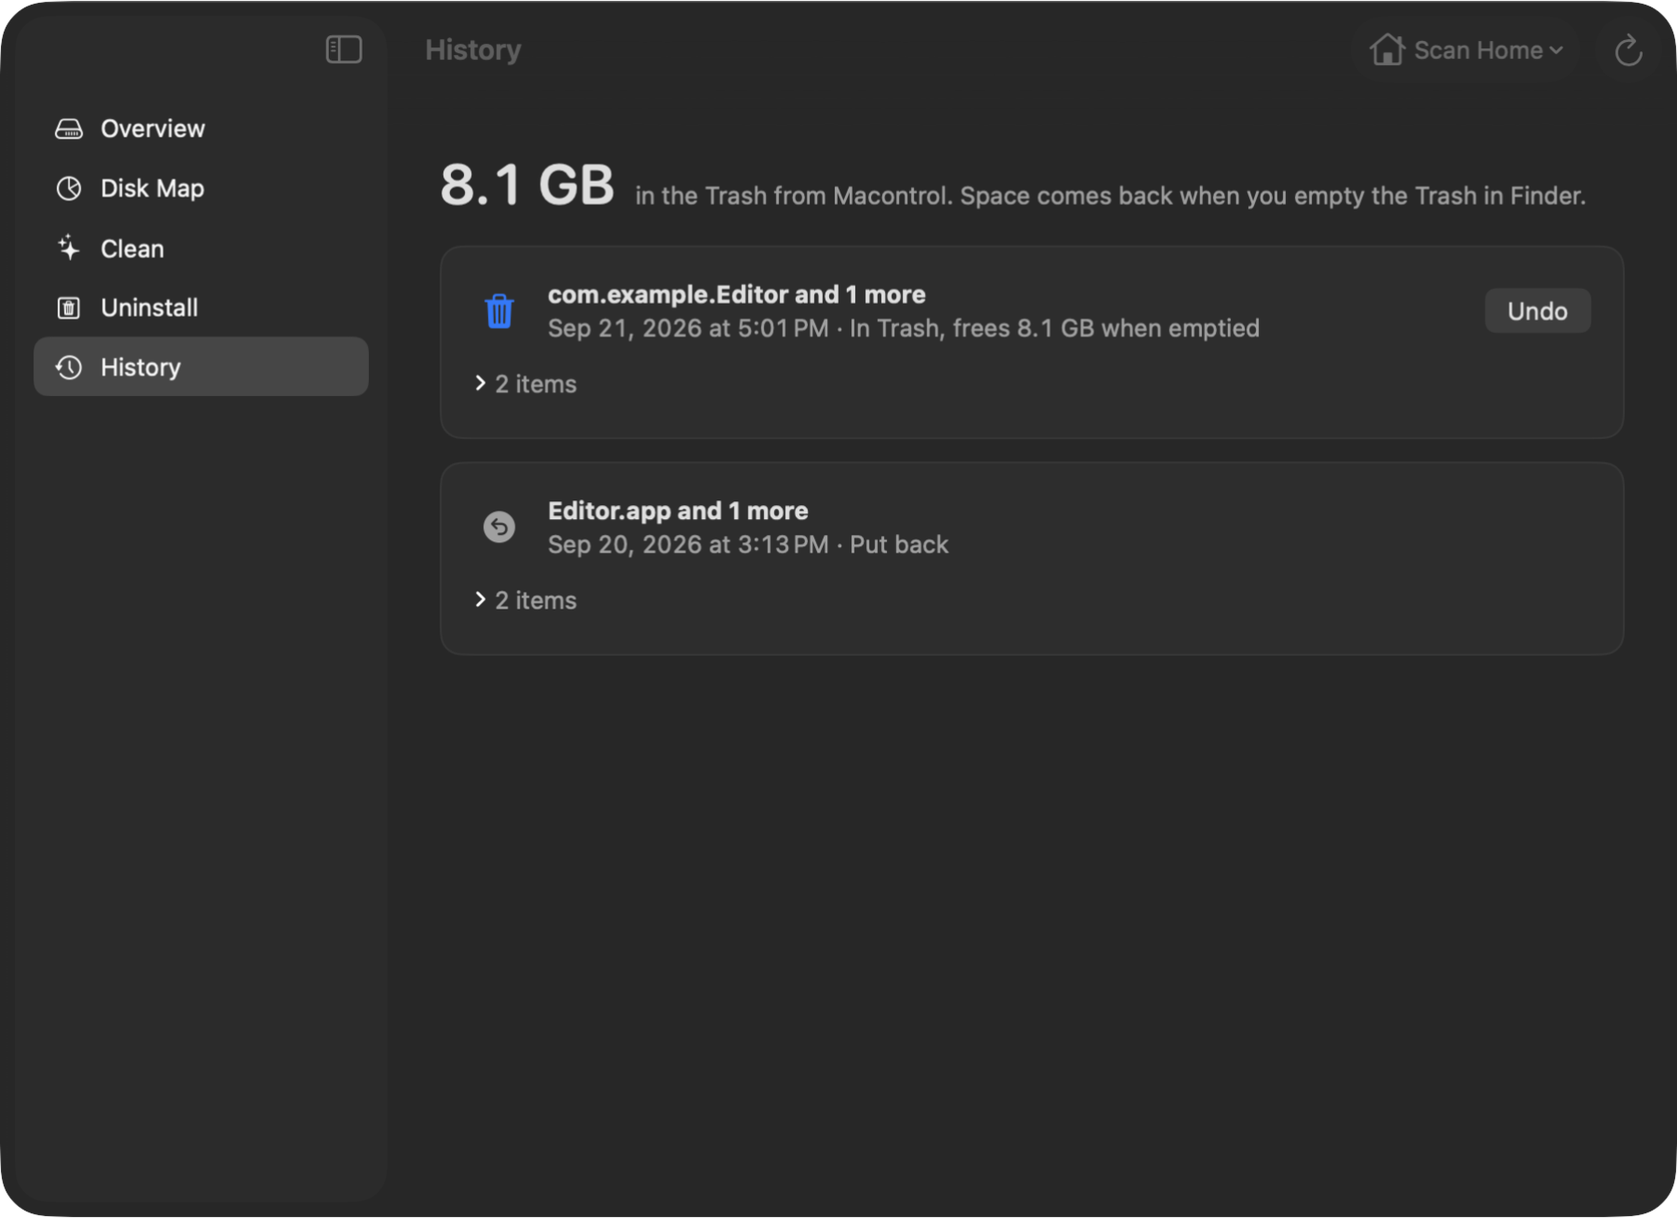
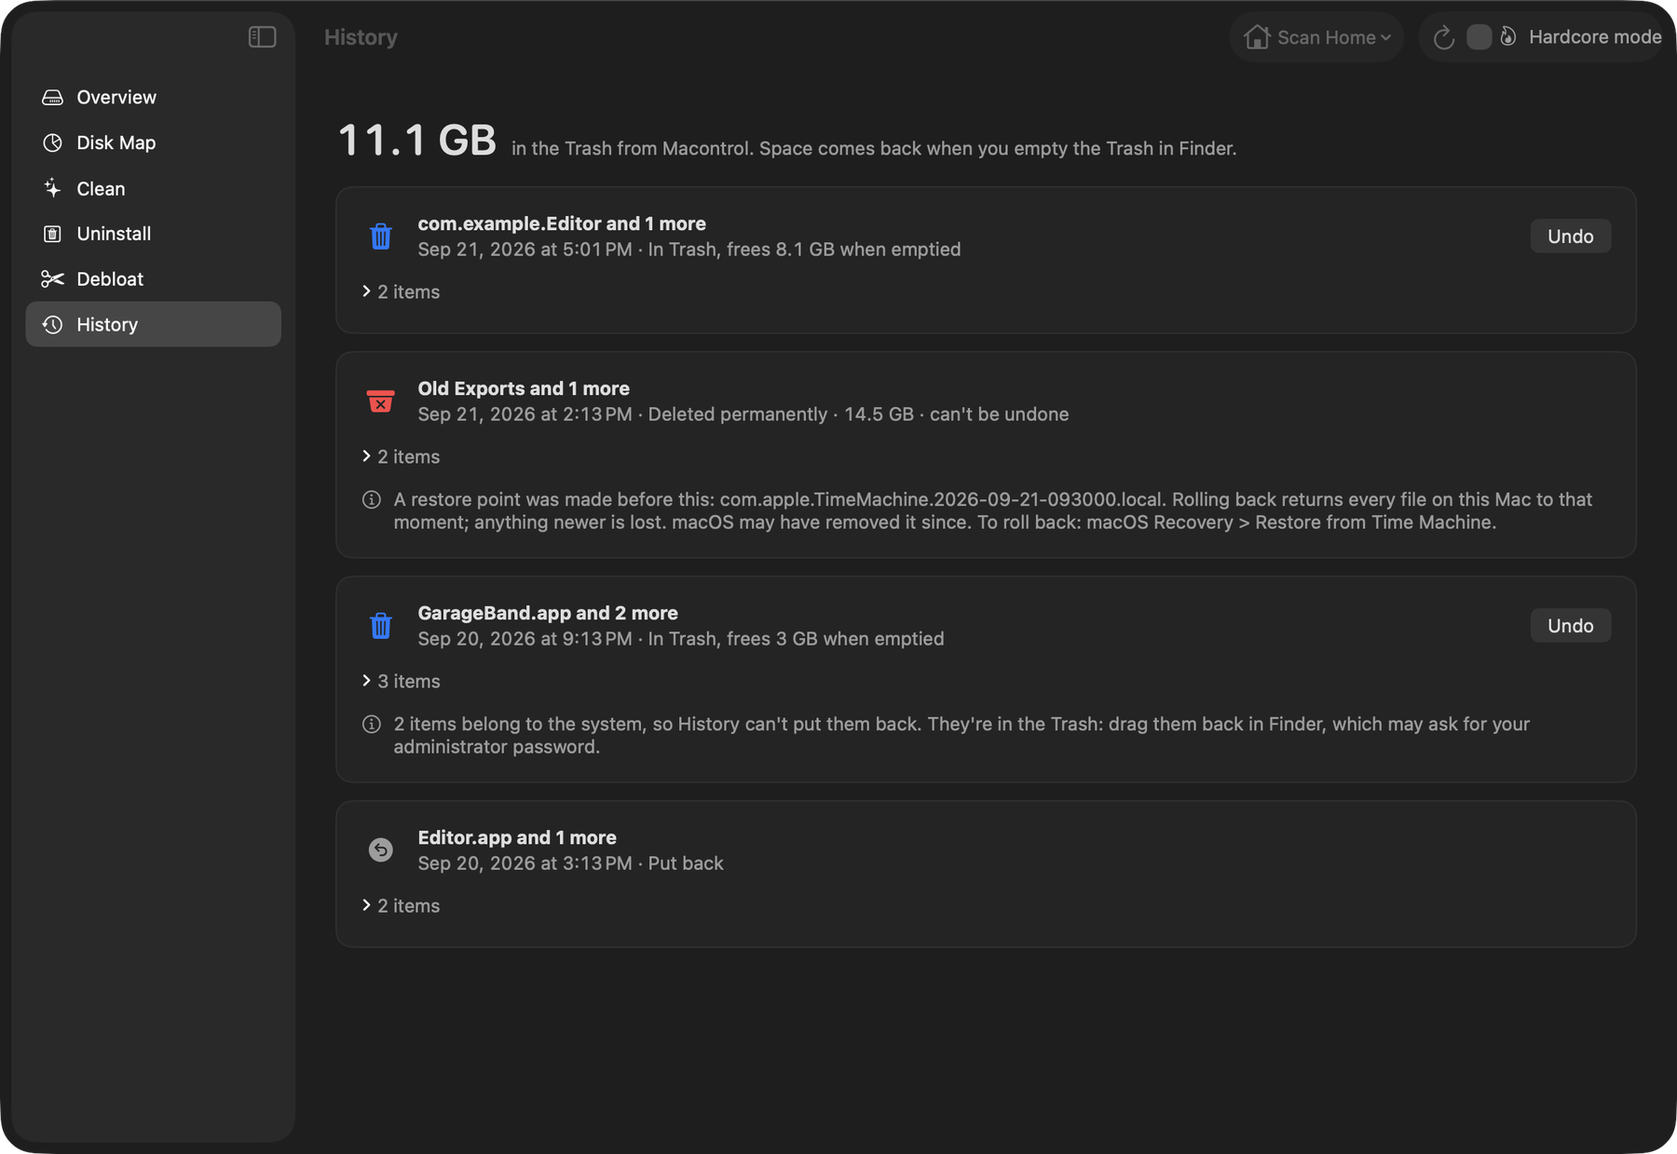
README for 0.2.0: hardcore mode, admin removals, Debloat, sealed apps, safety model, install and roadmap
Screenshots rendered headless from 479b8c9 with -AppleLocale en_US: the six window shots now show the
Hardcore mode checkbox and the Debloat sidebar item, and debloat, hardcore-modal and hardcore-uninstall
pairs are new. The three sheet shots did not change and are kept. Download points at macontrol.vercel.app
(the repo is private).

diff --git a/README.md b/README.md
@@ -5,15 +5,16 @@
 <h1>macontrol</h1>
 
 <p><strong>See where your disk space went, and get it back safely.</strong><br>
-A native macOS app that maps your disk and cleans it up, with every removal going to the Trash first.</p>
+A native macOS app that maps your disk, cleans it up and removes the apps you don't want, Apple's included.<br>
+Everything goes to the Trash first, unless you turn on hardcore mode.</p>
 
 [![macOS 14+](https://img.shields.io/badge/macOS-14%2B-111111?logo=apple&logoColor=white)](#install)
 [![Swift 6.2](https://img.shields.io/badge/Swift-6.2-F05138?logo=swift&logoColor=white)](Package.swift)
 [![Apple Silicon](https://img.shields.io/badge/Apple%20Silicon-arm64-6E56CF)](#install)
 [![License: MIT](https://img.shields.io/badge/license-MIT-2EA043)](LICENSE)
-[![Release: v0.1.0 preview](https://img.shields.io/badge/release-v0.1.0%20preview-F59E0B)](https://github.com/Ege-BULUT/macontrol/releases/tag/v0.1.0)
+[![Release: v0.2.0 preview](https://img.shields.io/badge/release-v0.2.0%20preview-F59E0B)](CHANGELOG.md)
 
-**[Download](https://github.com/Ege-BULUT/macontrol/releases/tag/v0.1.0)** · [Features](#features) · [Safety](#safety) · [Build from source](#build-from-source)
+**[Download](https://macontrol.vercel.app)** · [Features](#features) · [Safety](#safety) · [Docs](https://macontrol.vercel.app/docs/) · [Build from source](#build-from-source)
 
 </div>
 
@@ -25,7 +26,7 @@ A native macOS app that maps your disk and cleans it up, with every removal goin
 </picture>
 
 > [!NOTE]
-> **0.1.0 is a preview.** It runs on Apple Silicon Macs with macOS 14 or later, it is not notarized yet, and it never deletes anything permanently: whatever it removes goes to the Trash.
+> **0.2.0 is a preview.** It runs on Apple Silicon Macs with macOS 14 or later and is not notarized. Whatever it removes goes to the Trash, unless you turn on hardcore mode. The administrator helper is tested only as a normal user so far: its first real run with an administrator password is still to come ([Known limits](#known-limits-in-020)).
 
 ## Why macontrol
 
@@ -33,8 +34,9 @@ Most disk tools either show you where the space went or offer to clean it up. ma
 
 - **See it.** A sunburst or a treemap of your home folder, the whole disk or any folder, sized by what each item takes up on disk.
 - **Free it.** Caches, logs and developer leftovers from a vetted catalog, and apps together with the files they leave behind.
+- **Debloat it.** Remove Apple's optional apps, such as Xcode, GarageBand and the iWork apps, with the content they install. Items owned by the system are removed after you enter your administrator password.
 - **Trust the numbers.** Hard links count once, folders it cannot read say "not scanned" instead of 0 B, and Clean and the Disk Map tell you how much emptying the Trash will actually free before anything moves.
-- **Change your mind.** Every removal goes to the Trash and into a journal. History puts a whole batch back in one click.
+- **Change your mind.** By default every removal goes to the Trash and into a journal, and History puts a whole batch back in one click. Permanent deletion is there when you want it, behind hardcore mode.
 
 ## Features
 
@@ -77,13 +79,70 @@ Most disk tools either show you where the space went or offer to clean it up. ma
 
 <picture>
   <source media="(prefers-color-scheme: dark)" srcset="docs/assets/screenshots/uninstall-dark.png">
-  <img src="docs/assets/screenshots/uninstall-light.png" alt="Uninstall: an app with its leftovers grouped by the evidence that ties them to it, and a Needs admin item with Reveal in Finder">
+  <img src="docs/assets/screenshots/uninstall-light.png" alt="Uninstall: the app list with All, User and System filters, and an app's leftovers grouped by the evidence that ties them to it">
 </picture>
 
 - **Leftovers with evidence.** Files named with the app's bundle identifier in the places apps keep data (Application Support, Caches, Preferences, Saved Application State, Logs and more), sandbox containers that macOS records as the app's, group containers from its entitlements, and launchd jobs that start a program inside it. Each group says why it matched.
 - **Cautious by default.** Folders that only share the app's name are shown but not preselected. Data that another installed app also uses is never preselected.
-- **In the right order.** The app is asked to quit (never force-quit) and its own background agents are stopped first. Then the app goes to the Trash, and the leftovers you chose follow only once it is there. History shows the two batches, each with its own Undo.
-- **Apple's own apps.** Apps that are part of macOS live on the sealed system volume and are listed with the reason they can't be removed. Root-owned apps, which usually include Apple's App Store apps, and root-owned leftovers are marked as needing an administrator, with Reveal in Finder.
+- **In the right order.** The app is asked to quit (never force-quit) and its own background agents are stopped first. Then the app and the leftovers you chose go in one batch, and no leftover moves while the app is still in place.
+- **Sort and filter.** Sort by name, date added or size, and show all apps, yours or Apple's.
+- **Root-owned apps and leftovers,** which usually include Apple's App Store apps, carry an "Admin" badge and are removed through the [administrator helper](#administrator-removals).
+- **Apps that are part of macOS** live on the sealed system volume and are listed with the reason they can't be removed.
+
+### Debloat
+
+<picture>
+  <source media="(prefers-color-scheme: dark)" srcset="docs/assets/screenshots/debloat-dark.png">
+  <img src="docs/assets/screenshots/debloat-light.png" alt="Debloat: GarageBand and Xcode listed with their sizes, Xcode expanded to its app, simulator caches, build files, developer frameworks and package receipts, each with an Admin badge where it belongs to the system, and nothing ticked">
+</picture>
+
+- **Apple's optional apps in one checklist:** Xcode, GarageBand, Logic Pro, MainStage, iMovie, Pages, Numbers, Keynote, Final Cut Pro, Motion and Compressor, each with the content it installs outside its bundle (sound libraries, simulator caches, frameworks, package receipts).
+- **Nothing starts ticked.** Tick an app, and the content macontrol has checked for it is ticked with it. Content that is shared with another app, holds your own work, or hasn't been checked on a real install stays unticked, with a note that says why.
+- **Xcode in the right order.** Its simulator runtimes are deleted first, with Xcode's own tool, while Xcode is still there to do it. If git and clang pointed into the Xcode you remove, the confirmation warns you and gives you `sudo xcode-select --reset` to run afterwards.
+- **One password for the whole run.** Everything owned by the system goes in one request to the administrator helper, so macOS shows one password dialog, however many apps you picked.
+
+Only the Xcode profile has been checked against a real install so far. The others come from Apple's install layout and start with their content unticked until they are checked.
+
+### Hardcore mode
+
+<table>
+  <tr>
+    <td width="45%">
+      <picture>
+        <source media="(prefers-color-scheme: dark)" srcset="docs/assets/screenshots/hardcore-modal-dark.png">
+        <img src="docs/assets/screenshots/hardcore-modal-light.png" alt="The Turn on hardcore mode warning: nothing goes to the Trash and History can't put anything back, it stays on until you turn it off or quit, what macontrol still never deletes, and a red Turn On Hardcore Mode button next to Cancel">
+      </picture>
+    </td>
+    <td width="55%">
+      <picture>
+        <source media="(prefers-color-scheme: dark)" srcset="docs/assets/screenshots/hardcore-uninstall-dark.png">
+        <img src="docs/assets/screenshots/hardcore-uninstall-light.png" alt="A permanent confirmation: Uninstall Editor permanently?, a red strip that says Permanent: skips the Trash, the items that will be deleted, an unticked box to create a restore point first, and a red Delete Permanently button">
+      </picture>
+    </td>
+  </tr>
+</table>
+
+- **A checkbox in the toolbar,** on every screen. Off, the default at every launch, removals go to the Trash. macontrol never remembers it.
+- **A warning first.** Ticking it opens the warning above. Return and Esc both cancel it, and the red button has no keyboard shortcut. While it is on, a red banner says so on every screen.
+- **Every removal still asks.** Each permanent confirmation is marked in red and lists what will be deleted. Return never presses "Delete Permanently".
+- **Some things still go to the Trash:** anything in iCloud Drive or another cloud folder, and your notes, contacts, calendars, Safari data and iPhone backups. The confirmation lists them apart, with the reason.
+- **Restore point.** A permanent confirmation can make a Time Machine local snapshot first. It is never automatic: rolling back returns every file on the Mac to that moment, and the snapshot holds on to the deleted data while it exists.
+- **Folders are never left half deleted.** A folder goes to the Trash first and is erased there, so if the erase stops halfway, the rest waits in the Trash under its own name instead of in its old place.
+
+### Administrator removals
+
+Apple's App Store apps and many leftovers in `/Library` belong to the system, so removing them needs root. In Clean, Uninstall and Debloat these items carry an "Admin" badge. When you confirm, macOS asks for your administrator password in one dialog for the whole removal, with a message that says how many items it is for and whether they go to the Trash or are deleted.
+
+The password starts a small helper inside the app, `Contents/Helpers/macontrol-priv`. It is not installed anywhere, and it exits when the removal is done. It reads the list you confirmed, checks each item again as root and then moves or deletes it:
+
+- **It can only reach** app bundles in `/Applications`, items inside a few `/Library` folders (Application Support, Audio, Caches, Developer, LaunchAgents, LaunchDaemons, Logs, Preferences, PrivilegedHelperTools), package receipts, and root-owned items in your own Library.
+- **It never touches** macOS's own settings in those folders, `/System`, `/private/etc`, keychains, other users' folders, locked files or anything that changed since the scan. It never changes permissions, ownership or flags to force a removal.
+- **Root-owned items go to your Trash, not root's.** History can't put them back itself; drag them back in Finder, which may ask for your password.
+- **The Disk Map never uses it.** Root-owned items there stay marked "Needs admin", with Reveal in Finder.
+
+### Apps that are part of macOS
+
+Chess, Stocks, News and the other apps that come with macOS live on a sealed, read-only system volume. macontrol shows them locked, with their size and why no app can remove them while System Integrity Protection is on. For people who want to do it anyway, an expert guide lists the steps to run in Terminal yourself and how to undo them, behind a list of risks and an "I have a backup and I accept these risks" box. It is strongly not recommended: it means turning off System Integrity Protection and FileVault, macOS updates bring the apps back, and almost no space comes back. macontrol runs none of these commands. The same text is in [docs/guides/remove-system-apps.md](docs/guides/remove-system-apps.md).
 
 ### Overview and History
 
@@ -98,13 +157,13 @@ Most disk tools either show you where the space went or offer to clean it up. ma
     <td width="50%">
       <picture>
         <source media="(prefers-color-scheme: dark)" srcset="docs/assets/screenshots/history-dark.png">
-        <img src="docs/assets/screenshots/history-light.png" alt="History: two batches, one in the Trash with an Undo button and one already put back">
+        <img src="docs/assets/screenshots/history-light.png" alt="History: a batch in the Trash with Undo, a permanent deletion made after a restore point, a batch with items the administrator helper moved, and one already put back">
       </picture>
     </td>
   </tr>
   <tr>
     <td><strong>Overview</strong> shows capacity, the largest folders in your home and how much is safe to clean. Purgeable space appears as a dated note and is never counted as free.</td>
-    <td><strong>History</strong> lists every batch macontrol moved, what it frees once you empty the Trash, and an Undo button that puts the batch back.</td>
+    <td><strong>History</strong> lists every batch macontrol removed. Batches in the Trash show what they free once you empty it and have an Undo button. Permanent deletions and restore points are listed too.</td>
   </tr>
 </table>
 
@@ -125,13 +184,15 @@ Measured on an Apple M1 (8 cores, 8 GB, macOS 26.6) while another process kept o
 
 macontrol is built to be boring about your files:
 
-- **Trash only.** Removals go through macOS's own Move to Trash. Nothing is deleted permanently, and macontrol never empties the Trash: the space comes back when you do.
-- **Undo journal.** Every moved item is recorded in `~/Library/Application Support/Macontrol/trash-journal.jsonl`, readable only by you. History puts a batch back as long as it is still in the Trash and its original place is free.
-- **Checked again at the last moment.** Right before an item moves, its identity is compared with what the scan saw. A file that was replaced, or swapped for a link, since the scan stays where it is.
-- **Protected places.** Your home folder, Desktop, Documents, Downloads, Pictures, Movies and Music, `/Applications`, `/Library`, and system folders are never trashed, nor is any folder that contains them. Keychains, `~/.ssh`, `~/.gnupg`, Mail, Messages, photo libraries, privacy (TCC) data, cloud sync state and `/System` are off limits entirely, contents included.
+- **Trash by default.** Unless hardcore mode is on, removals go through macOS's own Move to Trash, and macontrol never empties the Trash: the space comes back when you do.
+- **Permanent only on purpose.** Permanent deletion needs hardcore mode, which is off at every launch and turns on only after its warning, and then the removal's own red confirmation. Items in iCloud Drive or another cloud folder, and your notes, contacts, calendars, Safari data and iPhone backups, go to the Trash even then.
+- **Undo journal.** Every item moved to the Trash is recorded in `~/Library/Application Support/Macontrol/trash-journal.jsonl`, readable only by you. History puts a batch back as long as it is still in the Trash and its original place is free. Permanent deletions are recorded too, and have no Undo.
+- **Checked again at the last moment.** Right before an item moves or is deleted, its identity is compared with what the scan saw. A file that was replaced, or swapped for a link, since the scan stays where it is. A permanent delete works through open folder handles, so a folder swapped for a link halfway through is never followed.
+- **Protected places.** Your home folder, Desktop, Documents, Downloads, Pictures, Movies and Music, `/Applications`, `/Library`, and system folders are never removed, nor is any folder that contains them. Keychains, `~/.ssh`, `~/.gnupg`, Mail, Messages, photo libraries, privacy (TCC) data, cloud sync state and `/System` are off limits entirely, contents included. Locked files are refused, and macontrol never changes a flag or an owner to force a removal.
 - **Cloud needs consent.** Items in iCloud Drive or other cloud storage folders need an extra confirmation, because removing them removes them on every device.
-- **No admin powers.** There is no privileged helper and no password prompt. Root-owned items are marked "Needs admin", with Reveal in Finder.
-- **One door.** Only the Safety module can move files. A test fails if any other source file deletes, moves or renames files, runs a script or launches a process (the uninstaller's `launchctl` call is the one exception). An attack suite tries link swaps in the middle of a batch, hostile file names, locked files and paths deeper than `PATH_MAX`.
+- **Admin powers, fenced in.** Root-owned items are removed only by the bundled helper, only after macOS's password dialog, only in the places listed under [Administrator removals](#administrator-removals), and only after the helper has run every check above again as root. The request it acts on is bound to that dialog by its SHA-256, and a result file kept from another run is not believed. The helper has no Undo: what it moved goes back through Finder.
+- **One door.** Only the Safety module can move or delete files. A test fails if any other source file deletes, moves or renames files, runs a script or launches a process. The exceptions are named in the test: `launchctl` to stop an app's background jobs, Xcode's own `simctl` for simulator runtimes, `tmutil` for restore points, and the one call that starts the administrator helper.
+- **Attacked on purpose.** An attack suite swaps folders for links in the middle of a batch and of a permanent erase, uses hostile file names, locked files and paths deeper than `PATH_MAX`, rewrites the helper's request after the password, and replays old helper results.
 
 <p align="center">
   <picture>
@@ -144,12 +205,14 @@ macontrol is built to be boring about your files:
 
 ## Install
 
-1. Download **Macontrol-0.1.0.zip** from the [v0.1.0 release](https://github.com/Ege-BULUT/macontrol/releases/tag/v0.1.0) and unzip it.
+1. Download **Macontrol-0.2.0.zip** from [macontrol.vercel.app](https://macontrol.vercel.app) and unzip it in Finder.
 2. Move **Macontrol.app** to Applications.
-3. Open it. macOS blocks the first launch because the app is not notarized yet: open **System Settings › Privacy & Security** and click **Open Anyway**.
+3. Open it. macOS blocks the first launch because the app is not notarized: open **System Settings › Privacy & Security** and click **Open Anyway**. You do this once. On macOS 14 you can also Control-click the app and choose Open.
 4. Allow **Full Disk Access** when asked. macontrol walks you through it and continues by itself once access is on.
 
 Without Full Disk Access the app still works. Mail, Messages, Safari, cookies and the Trash then show as "not scanned" instead of as smaller numbers.
+
+From 0.2.0 on, every release is signed with the same macontrol certificate, so macOS should keep the Full Disk Access grant through updates. Coming from 0.1.x, which was signed ad hoc, you allow it once more.
 
 <p align="center">
   <picture>
@@ -160,11 +223,15 @@ Without Full Disk Access the app still works. Mail, Messages, Safari, cookies an
 
 **Requirements:** an Apple Silicon Mac with macOS 14 Sonoma or later.
 
-**Known limits in 0.1.0**
+### Known limits in 0.2.0
 
-- The app is ad-hoc signed, so Full Disk Access has to be granted again after installing a new version.
-- Root-owned items, usually including Apple's App Store apps (GarageBand, iMovie, iWork), need an administrator and cannot be removed from the app yet.
+- The administrator helper has not run as root yet. Its checks and both removal modes are tested as a normal user on temporary folders. The first real run, with an administrator password on a real Mac, is the next verification step (T-0078 on the [project board](https://macontrol.vercel.app/board/)).
+- Only Debloat's Xcode profile has been checked against a real install. The other Apple app profiles start with their content unticked.
+- Debloat's hardcore confirmation has no restore point box yet, and a hardcore confirmation's title also counts the items that still go to the Trash (T-0086, T-0085).
+- That Full Disk Access survives an update is checked against the signature macOS stores, not yet through a real update.
 - While an iOS Simulator is running, Clean skips the caches it cannot inspect.
+
+The full list is in the [changelog](CHANGELOG.md).
 
 ## Build from source
 
@@ -175,11 +242,11 @@ git clone https://github.com/Ege-BULUT/macontrol.git
 cd macontrol
 swift build              # build the app and the mcscan tool
 swift test               # run the tests
-scripts/bundle-app.sh    # release build, wrapped and ad-hoc signed as build/Macontrol.app
+scripts/bundle-app.sh    # release build with the helper, signed, as build/Macontrol.app
 open build/Macontrol.app
 ```
 
-Full Disk Access is tied to the app's signature, and an ad-hoc signature changes with every build. Set `SIGN_IDENTITY` to an Apple Development identity to keep the grant across rebuilds.
+Full Disk Access is tied to the app's signature, and an ad hoc signature changes with every build. Run `scripts/make-signing-cert.sh` once to make a local self-signed certificate: `bundle-app.sh` then signs with it, and the grant stays across rebuilds. Without it, the script signs ad hoc. [docs/RELEASING.md](docs/RELEASING.md) has the details.
 
 ```sh
 # Allocated size of a folder, in bytes, from the same engine the app uses
@@ -193,10 +260,12 @@ How the pieces fit together, and why: [docs/ARCHITECTURE.md](docs/ARCHITECTURE.m
 
 ## Roadmap
 
-- [ ] Hardcore mode: permanent delete, behind an explicit confirmation
-- [ ] Admin deletions through a privileged helper
-- [ ] Removing Apple's optional apps and their content libraries
-- [ ] A live map that fills in while the scan runs
+- [x] Hardcore mode: permanent delete, behind an explicit confirmation (0.2.0)
+- [x] Admin removals through a privileged helper (0.2.0; the real root run is still to be verified)
+- [x] Removing Apple's optional apps and their content libraries (0.2.0)
+- [x] A stable signature, so Full Disk Access survives updates (0.2.0)
+- [ ] 0.3.0: a live map that fills in while the scan runs
+- [ ] Removing macOS's own apps from inside macontrol, once the expert guide's steps and their undo have been tested on macOS 14, 15 and 26
 - [ ] Intel and universal builds
 - [ ] Notarized builds with in-app updates
 
